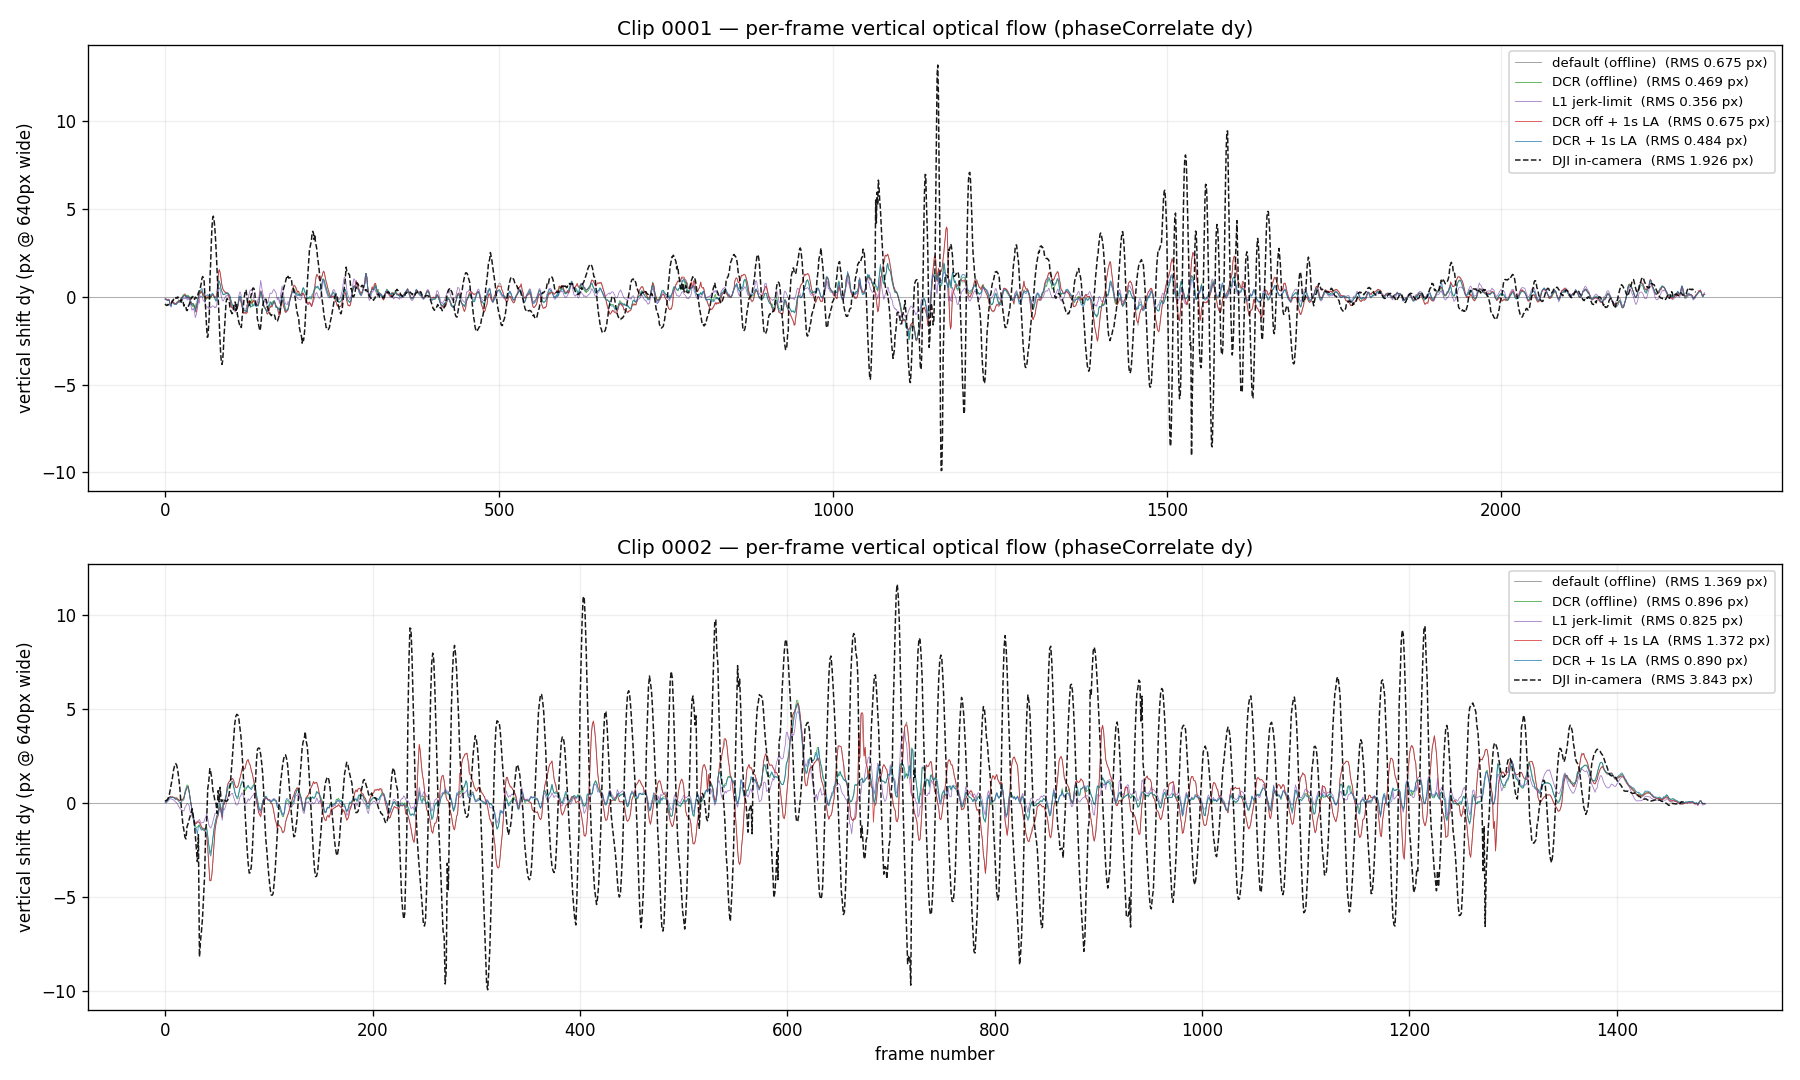
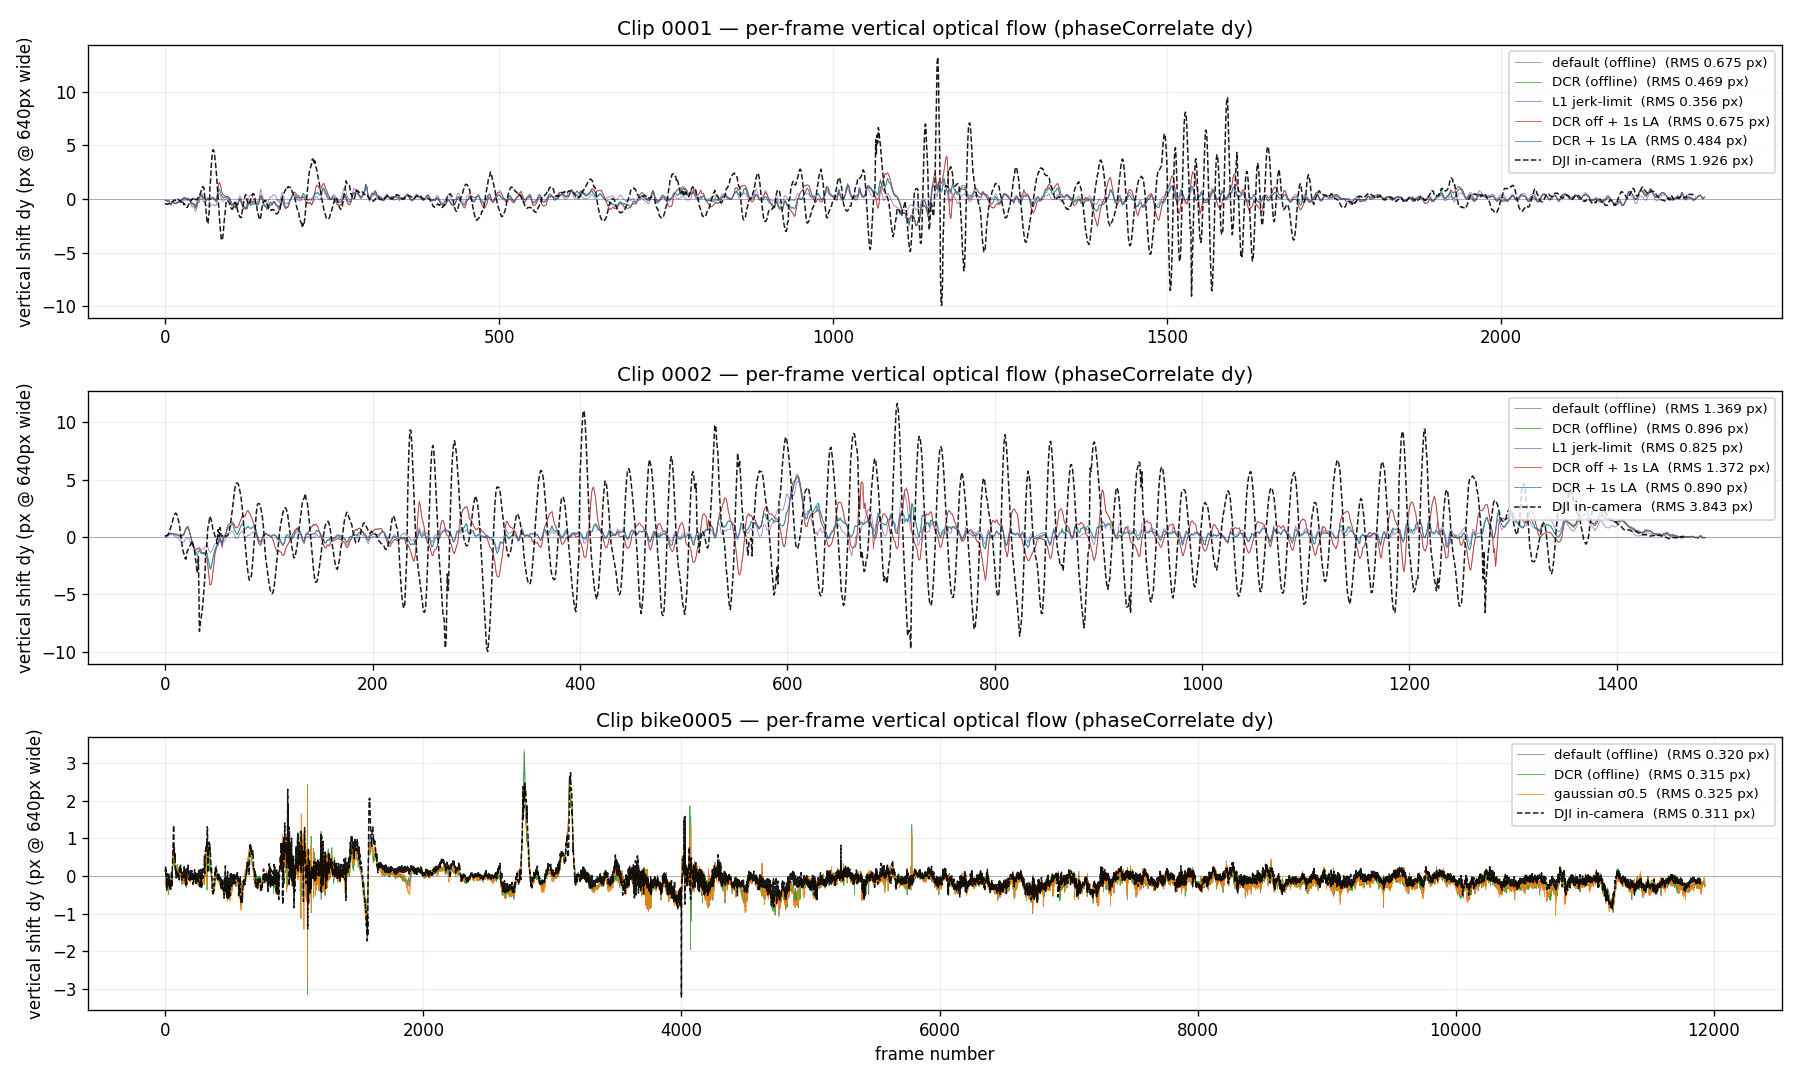
figures: add bike0005 to vertical_flow_all_configs_vs_dji
The all-configs-vs-DJI vertical-flow figure covered only the run clips; add a third
subplot for bike 0005 (default 0.320 / DCR 0.315 / gaussian s0.5 0.325 px vs DJI
in-camera 0.311 px over the full 11.9k frames — all four within noise, consistent
with EVALUATION_SUMMARY §3: on smooth footage every config ties on dy).

Tool: vertical_flow_compare.py gains a repeatable --series CLIP LABEL VIDEO argument
for clips whose renders live outside the --dir naming pattern; figures/README
reproduce command updated.

Claude-Session: https://claude.ai/code/session_01AJzF16XXvvuX3TJCKcokCX

diff --git a/tools/vertical_flow_compare.py b/tools/vertical_flow_compare.py
@@ -22,6 +22,10 @@ def main():
     ap.add_argument("--ref", nargs=2, action="append", metavar=("CLIP", "VIDEO"), default=None,
                     help="optional per-clip reference video (e.g. DJI in-camera), repeatable: "
                          "--ref 0001 /path/DJI_ref.MP4. Omit to plot configs only.")
+    ap.add_argument("--series", nargs=3, action="append", metavar=("CLIP", "LABEL", "VIDEO"),
+                    default=None,
+                    help="explicit extra series, repeatable: --series bike0005 DCR /path/x.mp4. "
+                         "Adds subplots for clips outside the --dir naming pattern.")
     ap.add_argument("-o", "--out", default="vertical_flow_compare.png")
     args = ap.parse_args()
 
@@ -40,15 +44,35 @@ def main():
     for clip, path in (args.ref or []):
         refs[clip] = (path, "DJI in-camera", "#000000")
 
+    # Explicit extra series (--series) for clips whose files don't follow the --dir pattern.
+    # New clips are appended as additional subplots in first-appearance order.
+    extra = {}   # clip -> [(label, path), ...]
+    for clip, label, path in (args.series or []):
+        extra.setdefault(clip, []).append((label, path))
+        if clip not in clips:
+            clips.append(clip)
+    # color per extra label: reuse the config palette by label match, else cycle spares
+    label_color = {label: c for _s, label, c in configs}
+    spare = ["#ff7f0e", "#17becf", "#bcbd22", "#8c564b"]
+
     series = {}
     for clip in clips:
-        for suffix, label, _c in configs:
-            fn = f"{clip}_D_cpp_stabilized{suffix}.mp4"
-            p = os.path.join(args.dir, fn)
+        if clip not in extra:   # pattern-based configs only for --dir-style clips
+            for suffix, label, _c in configs:
+                fn = f"{clip}_D_cpp_stabilized{suffix}.mp4"
+                p = os.path.join(args.dir, fn)
+                if not os.path.exists(p):
+                    print(f"SKIP missing {p}")
+                    continue
+                print(f"Analyzing {fn} ...", flush=True)
+                dy = vertical_flow(p, args.width, args.max_frames)
+                series[(clip, label)] = dy
+                print(f"  -> {len(dy)} frames, RMS dy = {np.sqrt(np.mean(dy**2)):.3f} px", flush=True)
+        for label, p in extra.get(clip, []):
             if not os.path.exists(p):
                 print(f"SKIP missing {p}")
                 continue
-            print(f"Analyzing {fn} ...", flush=True)
+            print(f"Analyzing {os.path.basename(p)} ...", flush=True)
             dy = vertical_flow(p, args.width, args.max_frames)
             series[(clip, label)] = dy
             print(f"  -> {len(dy)} frames, RMS dy = {np.sqrt(np.mean(dy**2)):.3f} px", flush=True)
@@ -66,7 +90,14 @@ def main():
     if len(clips) == 1:
         axes = [axes]
     for ax, clip in zip(axes, clips):
-        plot_list = list(configs)
+        if clip in extra:
+            plot_list = []
+            for label, _p in extra[clip]:
+                c = label_color.get(label) or (spare.pop(0) if spare else "#444444")
+                label_color[label] = c
+                plot_list.append(("x", label, c))
+        else:
+            plot_list = list(configs)
         if clip in refs:
             rp, rlabel, rcolor = refs[clip]
             plot_list = plot_list + [(None, rlabel, rcolor)]

diff --git a/cpp_core/figures/README.md b/cpp_core/figures/README.md
@@ -14,7 +14,7 @@ All commands are run from the **repo root**. On a headless box prefix Python wit
 |---|---|---|
 | `vertical_flow_la1_vs_dcr.png` | `tools/vertical_flow_compare.py` | per-frame global vertical shift `dy` (`cv2.phaseCorrelate`) — DCR off vs on |
 | `vertical_flow_all_configs.png` | `tools/vertical_flow_compare.py` | same, all five configs overlaid |
-| `vertical_flow_all_configs_vs_dji.png` | `tools/vertical_flow_compare.py` | same, plus a DJI in-camera reference clip per subplot |
+| `vertical_flow_all_configs_vs_dji.png` | `tools/vertical_flow_compare.py` | same, plus a DJI in-camera reference per subplot — run 0001/0002 **and bike 0005** (default/DCR/gaussian via `--series`) |
 | `black_border_stats.png` | `tools/black_border_stats.py` | edge-connected near-black area per frame (mean/max + time series) |
 | `zoom_vs_maxzoom.png` | `tools/zoom_vs_maxzoom.py` | required zoom (`1/raw_fov`) vs applied zoom (`1/fov`) vs the `max_zoom` clamp |
 | `rust_vs_cpp_default_dy.png` | `tools/rust_vs_cpp_dy.py` | `dy` of Rust vs C++ **default** renders, identical params — port-parity check |
@@ -113,10 +113,15 @@ done
 ```sh
 CPP_OUT="$RUN/cpp_out"
 
-# Vertical shake — all configs + optional DJI in-camera reference per clip (--ref)
+# Vertical shake — all configs + optional DJI in-camera reference per clip (--ref).
+# Clips outside the --dir naming pattern (e.g. bike renders) are added with --series.
 MPLBACKEND=Agg python3 tools/vertical_flow_compare.py --dir "$CPP_OUT" --width 640 \
   --ref 0001 "$DJI_REF_DIR/DJI_20260625014752_0002_D.MP4" \
   --ref 0002 "$DJI_REF_DIR/DJI_20260625014927_0004_D.MP4" \
+  --series bike0005 "default (offline)" "$BIKE_DIR/0005_D_cpp_default.mp4" \
+  --series bike0005 "DCR (offline)"     "$BIKE_DIR/DJI_..._0005_D_cpp_dcr.mp4" \
+  --series bike0005 "gaussian σ0.5"     "$BIKE_DIR/0005_D_cpp_gauss05.mp4" \
+  --ref bike0005 "$DJI_REF_BIKE/DJI_20260617031609_0004_D.MP4" \
   -o cpp_core/figures/vertical_flow_all_configs_vs_dji.png
 
 # Black-border statistics (stride-sampled for speed)
